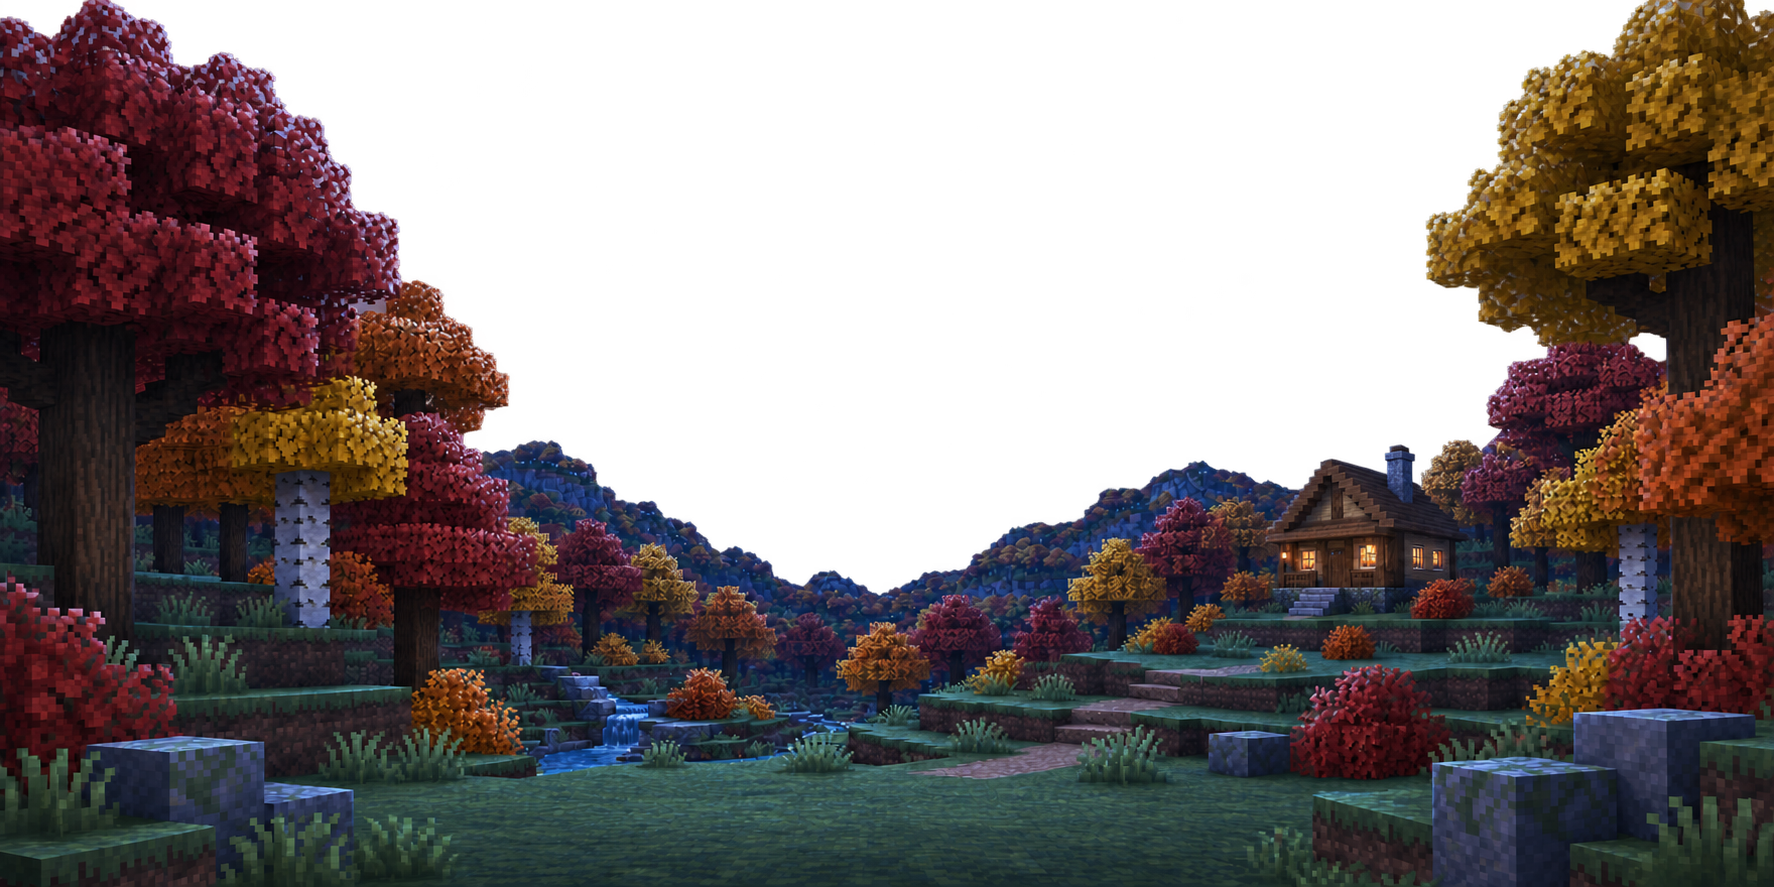
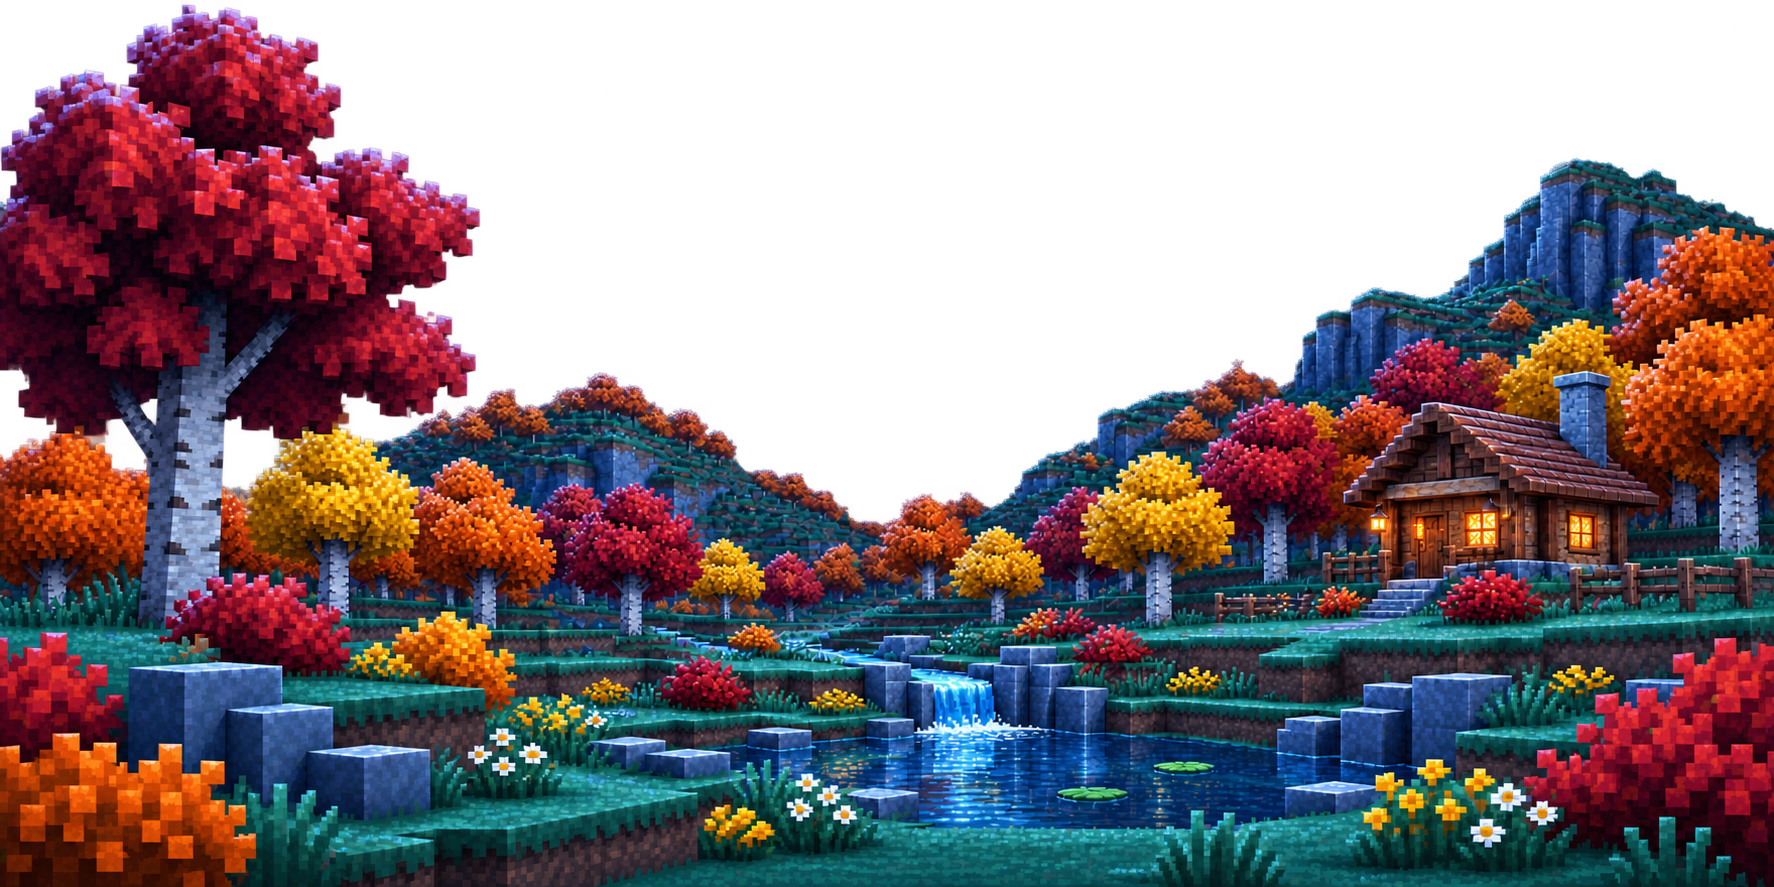
feat: integrate approved seasonal redraw

diff --git a/scripts/browser-smoke.ts b/scripts/browser-smoke.ts
@@ -698,8 +698,14 @@ try {
   await childTwo.getByLabel('Living Overworld light proof').selectOption('night');
   await childTwo.getByLabel('Living Overworld moon phase').selectOption('first-quarter');
   await childTwo.locator('.living-overworld-proof-controls summary').click();
-  if (!(await childTwo.locator('.living-overworld-banner').getAttribute('class'))?.includes('moon-first-quarter')) {
-    throw new Error('Living Overworld mobile moon phase override failed');
+  await childTwo.waitForTimeout(2500);
+  const mobileWinterNight = await childTwo.locator('.living-overworld-banner').evaluate((banner) => {
+    const artwork = banner.querySelector<HTMLImageElement>('.authored-night-background img')!;
+    return { artwork: artwork.currentSrc, opacity: Number.parseFloat(getComputedStyle(artwork.parentElement!).opacity) };
+  });
+  if (!(await childTwo.locator('.living-overworld-banner').getAttribute('class'))?.includes('moon-first-quarter')
+    || !mobileWinterNight.artwork.endsWith('/seasons/winter/night-mobile.png') || mobileWinterNight.opacity < .9) {
+    throw new Error(`Living Overworld mobile winter night proof failed: ${JSON.stringify(mobileWinterNight)}`);
   }
   await childTwo.screenshot({ path: path.join(qaDir, 'living-overworld-night-mobile.png'), fullPage: true });
 

diff --git a/src/client/LivingOverworldScene.test.ts b/src/client/LivingOverworldScene.test.ts
@@ -22,7 +22,9 @@ describe('Living Overworld theme foundation', () => {
     });
     expect(livingSeasonIllustrations.winter).toEqual({
       mobile: '/assets/living-overworld/seasons/winter/mobile.png',
-      desktop: '/assets/living-overworld/seasons/winter/desktop.png'
+      desktop: '/assets/living-overworld/seasons/winter/desktop.png',
+      nightMobile: '/assets/living-overworld/seasons/winter/night-mobile.png',
+      nightDesktop: '/assets/living-overworld/seasons/winter/night-desktop.png'
     });
     expect(livingSeasonIllustrations.spring).toBe(livingSeasonIllustrations.autumn);
     expect(livingSeasonIllustrations.summer).toBe(livingSeasonIllustrations.autumn);

diff --git a/src/client/LivingOverworldScene.tsx b/src/client/LivingOverworldScene.tsx
@@ -36,7 +36,9 @@ const autumnArtwork: LivingSeasonArtwork = {
 };
 const winterArtwork: LivingSeasonArtwork = {
   mobile: `${assetRoot}/seasons/winter/mobile.png`,
-  desktop: `${assetRoot}/seasons/winter/desktop.png`
+  desktop: `${assetRoot}/seasons/winter/desktop.png`,
+  nightMobile: `${assetRoot}/seasons/winter/night-mobile.png`,
+  nightDesktop: `${assetRoot}/seasons/winter/night-desktop.png`
 };
 
 /** Spring and summer intentionally retain the approved autumn fallback until their own artwork milestone. */

diff --git a/docs/PLANNER_HANDOFF.md b/docs/PLANNER_HANDOFF.md
@@ -4,7 +4,7 @@ Handoff date: November 14, 2026.
 
 ## Current Living Overworld milestone
 
-The Product Owner accepted the mobile-first autumn and winter compositions. Living Overworld now uses one cohesive illustration per season and responsive mobile/desktop masters rather than the retired coordinate-based modular renderer. The cleanup audit removed the renderer, editor, experimental layouts, obsolete modular assets, and the final four capture scripts that referenced them.
+The Product Owner accepted the redrawn autumn day/night set and dedicated blue winter-night treatments. Living Overworld uses cohesive responsive illustrations rather than the retired coordinate-based modular renderer. Autumn mobile and desktop are intentionally cohesive rather than identical, with matching day/night geometry inside each viewport; winter retains its day geography and adds authored night lighting.
 
 The active stack is intentionally narrow: atmospheric sky; sun, phased moon, clouds and rare night-sky events; the seasonal illustration; then independent lighting and weather layers. Celestial objects and sky events pass behind mountains and structures. Autumn and winter are approved; spring and summer intentionally reuse autumn until their own artwork is approved. Creatures and foreground scenery remain deferred.
 
@@ -12,7 +12,7 @@ The atmosphere refinement adds two-bank partly cloudy and six-bank cloudy presen
 
 The local correction checkpoint passes 52 automated tests, client/server TypeScript checks, the production build, and all 35 isolated browser workflows. Desktop and 390 px mobile evidence confirms the direct celestial-height control, storm canopy, denser snow, clearer stars, natural celestial occlusion, reduced motion, theme persistence, and unchanged chore and allowance workflows.
 
-The Product Owner accepted the [autumn-night treatment](LIVING_OVERWORLD_AUTUMN_NIGHT_PROOF.md). The runtime now crossfades the dedicated mobile and desktop night masters over the matching autumn landscape, preserving independent sky, celestial, star, cloud, fog, and precipitation layers. The vertical sun/moon track now stops with the complete disk below the transparent header on desktop and portrait mobile.
+The Product Owner accepted the [seasonal redraw](LIVING_OVERWORLD_SEASON_REDRAW_PROOF.md). The runtime crossfades dedicated night masters over matching autumn and winter scenes while preserving independent sky, celestial, star, cloud, fog, and precipitation layers. The redrawn standalone artwork removes the former autumn skyline haze, and the vertical sun/moon track stops with the complete disk below the transparent header on desktop and portrait mobile.
 
 No additional Living Overworld milestone is inferred. Spring/summer artwork, creatures, foreground scenery, accumulation, and environmental simulation remain deferred until explicitly authorized.
 

diff --git a/docs/CURRENT_STATE.md b/docs/CURRENT_STATE.md
@@ -12,7 +12,7 @@ The active Living Overworld presentation now uses a deliberately small layer sta
 
 Implemented and verified:
 
-- Accepted autumn and winter landscapes with distinct geography and a shared softly illustrated, Minecraft-inspired visual language.
+- Accepted redrawn autumn day/night landscapes and winter day/blue-night landscapes with distinct geography and a shared softly illustrated, Minecraft-inspired visual language.
 - Mobile-first 1774 x 887 masters and 2172 x 724 desktop crop masters selected responsively with one semantic picture element.
 - A transparent application header and a complete mobile composition with visible sky, terrain, and an unclipped structure.
 - Automatic meteorological seasons in `America/Los_Angeles`.
@@ -23,7 +23,7 @@ Implemented and verified:
 - Temperatures are presented in Celsius and Fahrenheit. Evening and night add a prominent, slowly rotating varied star field, while rare downward comets and meteors use a moving luminous head and fading tail behind the seasonal illustration.
 - The development scene control exposes an intuitive celestial-height override: moving the slider right raises the active body, while `Auto` restores sunrise/sunset timing.
 - Autumn mobile and desktop alpha edges were tightened to remove the colored halo visible against darker weather skies.
-- The accepted autumn-night landscape preserves the approved geography while supplying authored moonlit color, warm retreat windows, and clean transparent skyline edges. It crossfades over the day master at night while independent celestial and weather layers remain active. See [Autumn night integration](LIVING_OVERWORLD_AUTUMN_NIGHT_PROOF.md).
+- The accepted autumn redraw uses cohesive, independently composed mobile and desktop layouts with matched day/night geometry. Its standalone transparent skyline removes the former fuzzy color fringe while retaining bright foliage, blue-green night terrain, warm retreat windows, and independent celestial/weather layers. Winter now uses dedicated luminous blue night masters rather than CSS-only darkening. See [Seasonal redraw integration](LIVING_OVERWORLD_SEASON_REDRAW_PROOF.md).
 - The sun and moon remain horizontally centered and travel only vertically. Their highest position keeps the complete disk below the transparent header on desktop and portrait mobile; landscape features continue to occlude the body naturally.
 - Seven-day adjacent-season transitions with controlled image mounting and responsive artwork selection.
 - Spring and summer intentionally fall back to autumn artwork until separate seasonal artwork is approved.

diff --git a/docs/THEMES.md b/docs/THEMES.md
@@ -54,11 +54,11 @@ Overworld combines the token system with `OverworldScene.tsx` and theme-scoped C
 
 Living Overworld uses cohesive seasonal illustrations. Each season is one complete Minecraft-inspired pixel-art landscape rather than a runtime assembly of individually positioned mountains, water, buildings, terrain, and plants.
 
-- Autumn and winter each provide a mobile master and a dedicated zoomed-out desktop crop master selected through `<picture>`.
+- Autumn provides matched day/night mobile and desktop masters; winter retains its accepted day masters and adds dedicated blue night mobile and desktop treatments. Responsive variants are selected through `<picture>`.
 - A shared responsive container displays the selected seasonal illustration with `object-fit: cover`.
 - The existing Open-Meteo appearance drives clear, partly cloudy, cloudy, rain, snow, and fog overlays. Partly cloudy uses fewer banks than cloudy; rain combines a heavy cloud ceiling with independently timed fine vertical drops; snow uses a denser field of slowly drifting flakes; fog uses overlapping ground wisps at varied depths.
 - The sun, detailed round moon, eight lunar phases, daylight tint, and motion controls remain independent of the illustration.
-- Autumn and winter are accepted seasonal masters. Spring and summer temporarily fall back to autumn until separate artwork is approved.
+- Autumn and winter are accepted seasonal masters. The redrawn autumn set uses a crisp standalone skyline without the former fuzzy color fringe. Spring and summer temporarily fall back to autumn until separate artwork is approved.
 - The scene is 330–380 CSS pixels tall on desktop and landscape tablets, and 170 pixels on portrait mobile, with controls outside the scenic area.
 - The sky and celestial objects sit behind the transparent seasonal artwork so terrain, trees, and buildings occlude them naturally.
 - In automatic mode, the sun and moon remain horizontally centered and travel only vertically. Their rise/apex/set progress follows the cached sunrise and sunset times; the apex is contained below the transparent application header, and a short central-horizon buffer advances the morning/evening lighting when the illustration occludes the body.

diff --git a/docs/LIVING_OVERWORLD_SEASON_REDRAW_PROOF.md b/docs/LIVING_OVERWORLD_SEASON_REDRAW_PROOF.md
@@ -1,6 +1,6 @@
 # Living Overworld seasonal redraw proof
 
-Status: **Pending Product Owner visual acceptance. Not integrated into Sensei.**
+Status: **Accepted by the Product Owner and integrated into Living Overworld.**
 
 This proof contains a fresh matched autumn day/night set and dedicated blue winter-night treatments. The autumn mobile and desktop compositions are cohesive rather than identical; each day/night pair preserves its own geometry so lighting can crossfade without doubled landmarks. Winter keeps the accepted daytime geography and changes only the night lighting response.
 
@@ -20,4 +20,4 @@ All six masters have genuine transparent skies and contain no baked celestial ob
 - [Full review page](assets/living-overworld-season-redraw-proof/review-full-page.png)
 - [Interactive local review prototype](prototypes/living-overworld-season-redraw-review.html)
 
-Runtime asset selection, replacement of the deployed seasonal masters, lighting-transition tuning, production optimization, publication, and deployment remain outside this proof milestone.
+The accepted autumn day/night masters replace the previous autumn artwork, and the authored winter-night masters supplement the retained winter day artwork. Runtime celestial, star, cloud, fog, rain, and snow layers remain independent. The release preserves the existing responsive selection, short night crossfade, celestial containment, and application behavior.

diff --git a/public/assets/living-overworld/README.md b/public/assets/living-overworld/README.md
@@ -10,6 +10,8 @@ Living Overworld now uses one cohesive landscape illustration per season. The re
 - `seasons/autumn/night-desktop.png` — 2172 × 724 accepted authored autumn-night desktop master with transparent sky.
 - `seasons/winter/mobile.png` — 1774 × 887 accepted winter mobile master.
 - `seasons/winter/desktop.png` — 2172 × 724 winter desktop crop master.
+- `seasons/winter/night-mobile.png` — 1774 × 887 authored blue winter-night mobile master with transparent sky.
+- `seasons/winter/night-desktop.png` — 2172 × 724 authored blue winter-night desktop master with transparent sky.
 - `moon-detailed.png` — 768 × 768 transparent moon used by the existing eight-phase mask.
 
 Spring and summer temporarily use the autumn pair as a visible fallback so the theme remains functional without creating unapproved additional scenes.

diff --git a/README.md b/README.md
@@ -60,6 +60,7 @@ The safe defaults bind to `127.0.0.1:3000` and store development data under `.lo
 
 - [Living Overworld restart review](docs/LIVING_OVERWORLD_RESTART_REVIEW.md)
 - [Living Overworld autumn-night integration](docs/LIVING_OVERWORLD_AUTUMN_NIGHT_PROOF.md)
+- [Living Overworld seasonal redraw integration](docs/LIVING_OVERWORLD_SEASON_REDRAW_PROOF.md)
 - [Current state](docs/CURRENT_STATE.md)
 - [Architecture and data integrity](docs/ARCHITECTURE.md)
 - [Theme system and Overworld assets](docs/THEMES.md)
